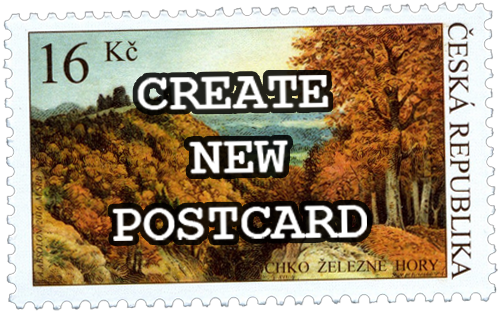
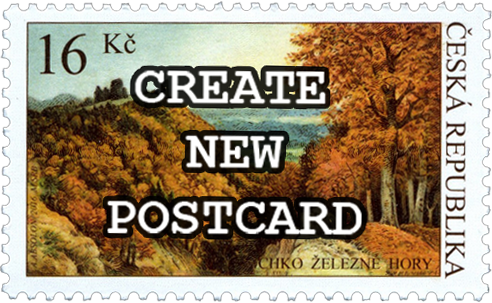
los sellos centrados y responsive

diff --git a/src/app/list-posts/list-posts.component.html b/src/app/list-posts/list-posts.component.html
@@ -13,19 +13,14 @@
         <button  type="button" class="btn ml-2" routerLink="/usercreate">Sign Up</button>
       </div>
     </div> 
-    <div *ngIf="authorised" class="row w-100 mx-auto mb-2">
-      <div class="col">
+    <div *ngIf="authorised  text-center" class="row w-100 mx-auto mb-2">
+   
           <button  type="button" class="stampButton stampButtonProfile" routerLink="/usermodify"></button>
-      </div>     
-
-
-      <div class="col text-center">
+     
           <button  type="button mx-auto" class="stampButton stampButtonCreatePostCard" routerLink="/postcreate"></button>
-      </div>
-
-      <div class="col  text-right">
+   
           <button  type="button" class="stampButton stampButtonLogout" routerLink="/userlogin"></button>
-      </div>
+     
 
     
     </div>

diff --git a/src/styles.css b/src/styles.css
@@ -50,19 +50,25 @@ body {
     border: 0px;
     background-color: transparent;
     cursor: pointer;
+    margin: auto;
 }
 
 .stampButtonProfile {
+    height: 130px;
+    width: 150px;
+    min-width: 150px;
     background-image: url(./assets/profile.png);
 }
 .stampButtonCreatePostCard {
     height: 150px;
     width: 230px;
+    min-width: 230px;
     background-image: url(./assets/createpostcard.png);
 }
 .stampButtonLogout {
     height: 130px;
     width: 175px;
+    min-width: 175px;
     background-image: url(./assets/logout.png);
 }
 
